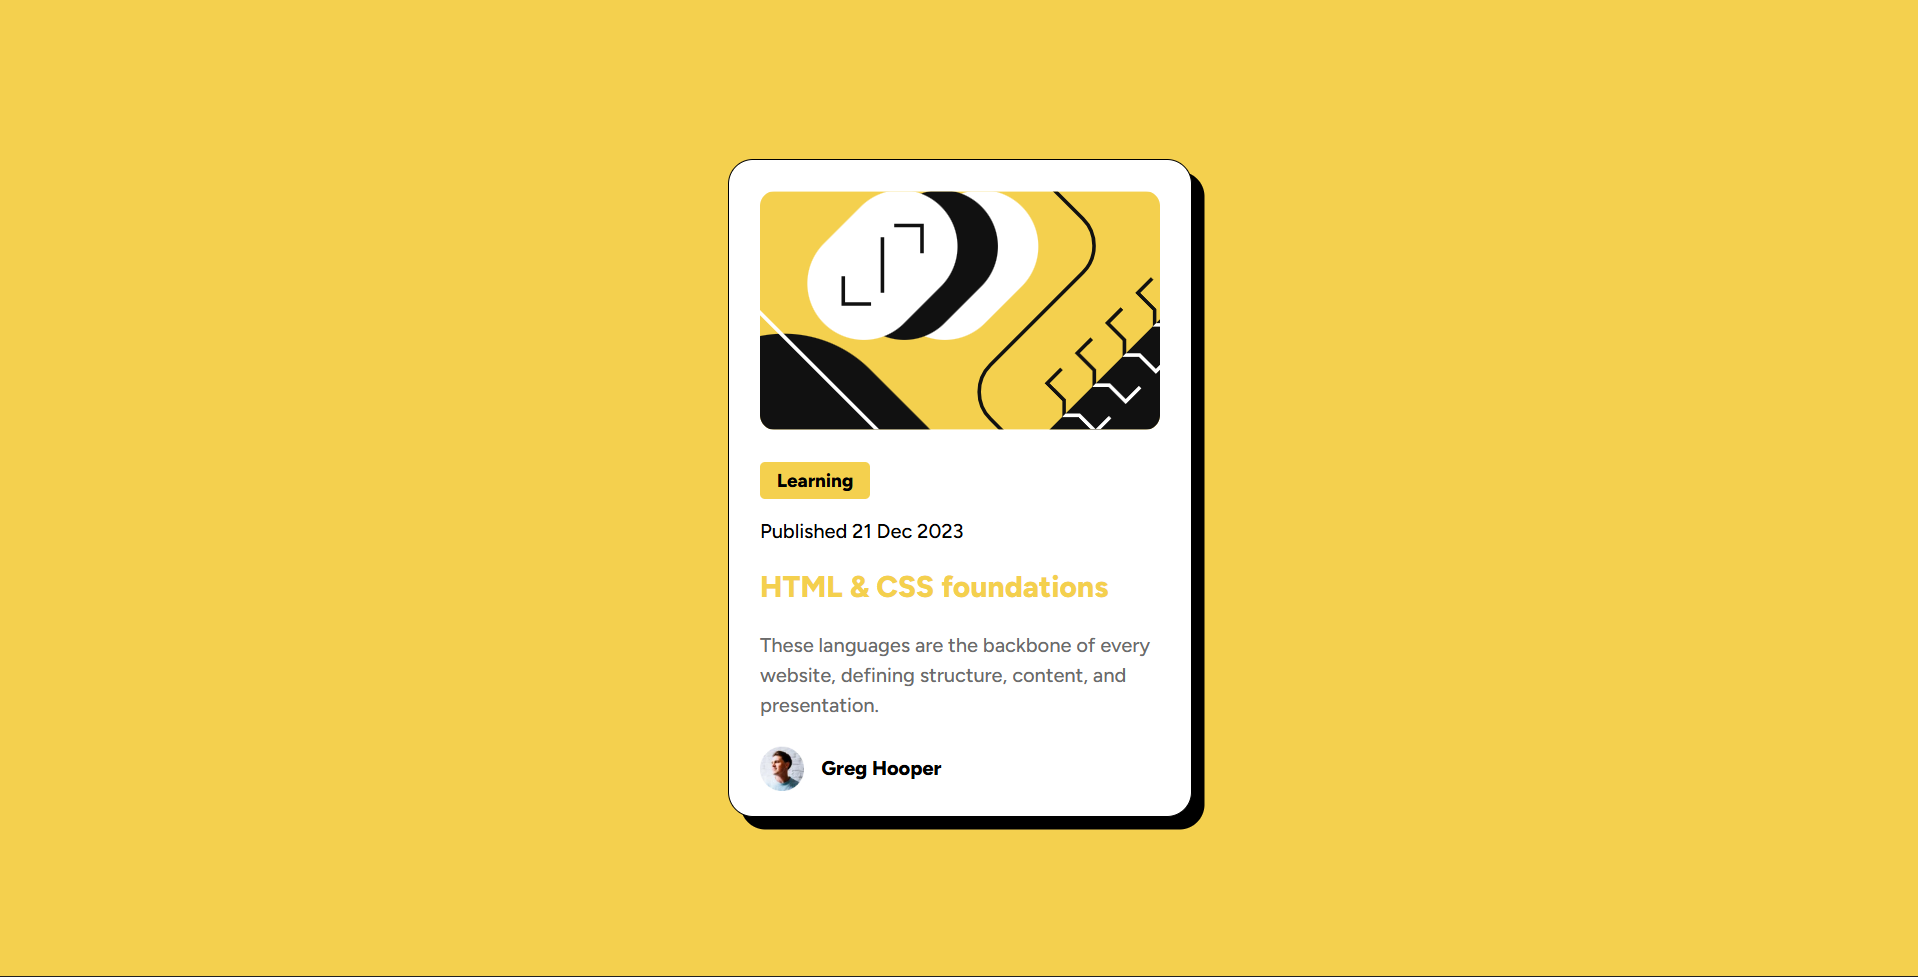
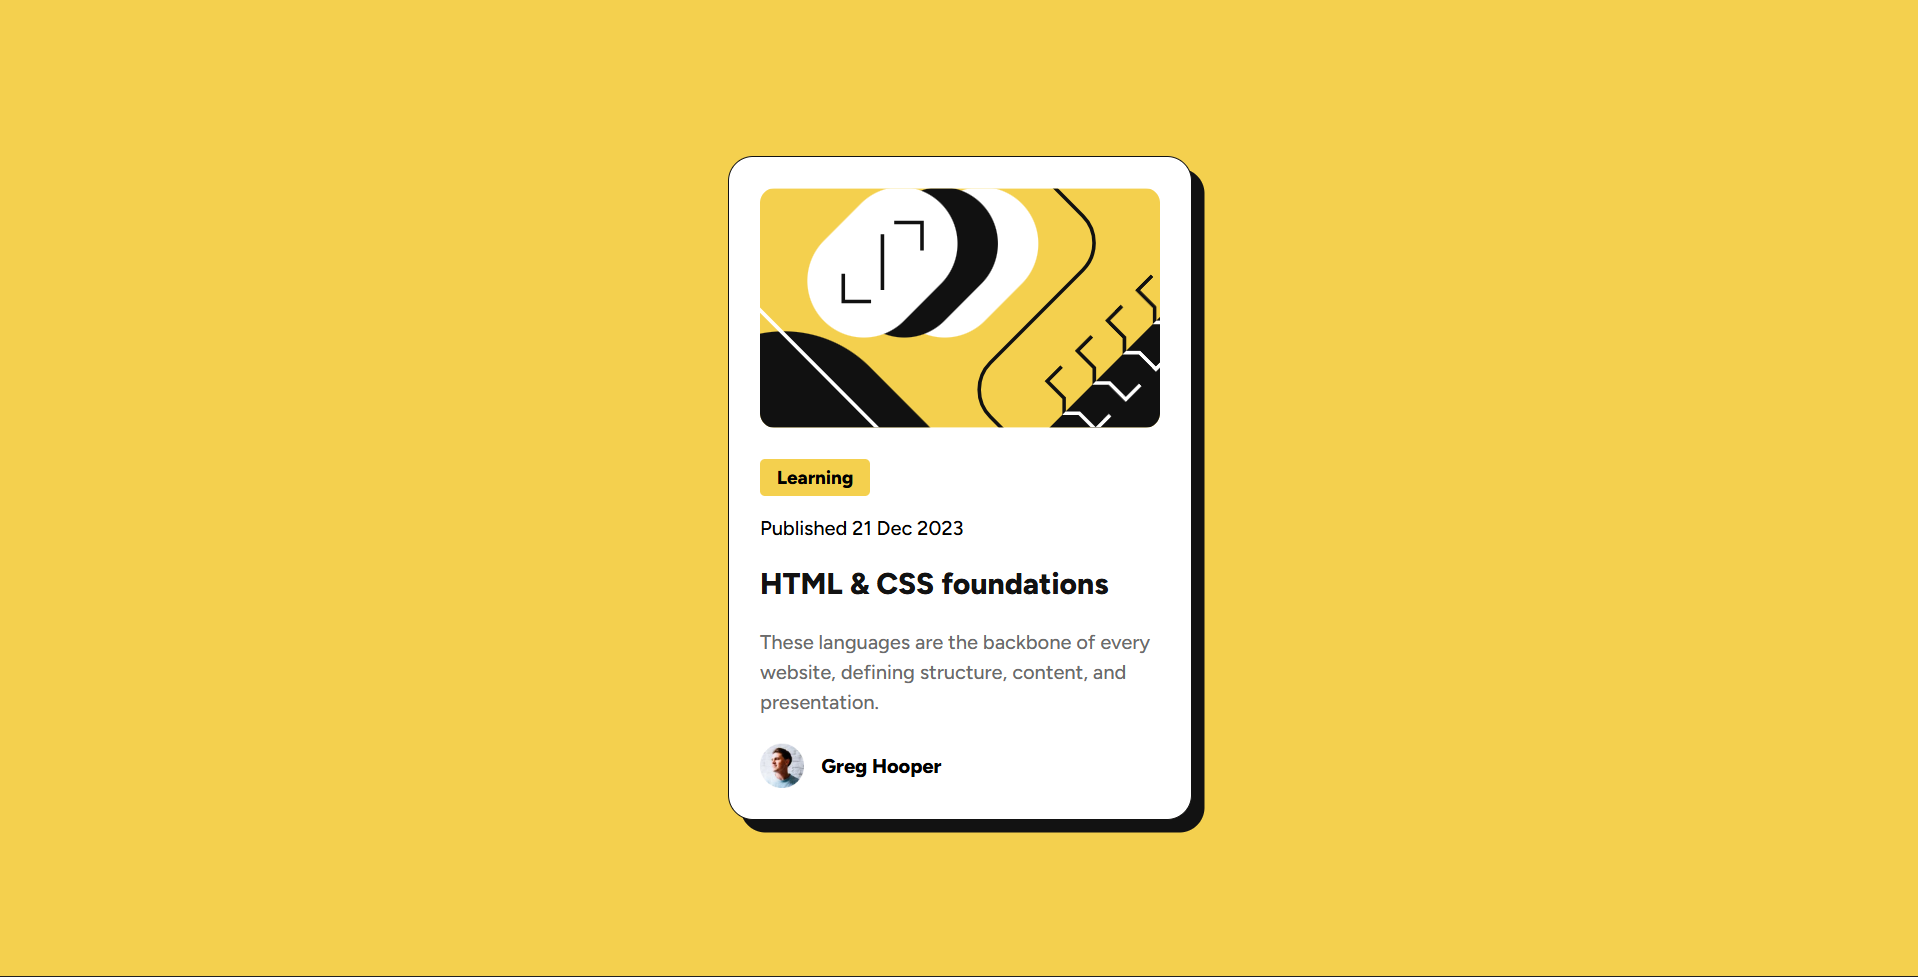
Improved Solution

diff --git a/blog-preview-card/style.css b/blog-preview-card/style.css
@@ -22,17 +22,17 @@ body {
     margin: 0;
     padding: 0;
     height: 100vh;
-    font-family: 'FigTree', sans-serif;
+    font-family: 'Figtree', sans-serif;
 }
 
 .container {
     background-color: white;
-    height: 475px;
+    height: auto;
     width: 320px;
     padding: 25px;
     border-radius: 20px;
-    border: 1px black solid;
-    box-shadow: 10px 10px;
+    border: 2px solid hsl(0, 0%, 7%);
+    box-shadow: 10px 10px 0px hsl(0, 0%, 7%);
 }
 
 .illustration img {
@@ -42,25 +42,33 @@ body {
 }
 
 .btn {
-    padding-top: 25px;
+    margin-top: 25px;
+}
+
+.learning:hover {
+    cursor: pointer;
 }
 
 .learning {
     background-color: hsl(47, 88%, 63%);
     border: none;
     color: black;
-    font-weight: 800;
     border-radius: 4px;
     height: 30px;
     width: 88px;
-    font-family: 'FigTree';
+    font-family: 'Figtree';
     font-weight: 800;
     font-size: 15px;
 }
 
-.title {
+.title:hover {
     color: hsl(47, 88%, 63%);
-    font-weight: 800;
+    cursor: pointer;
+}
+
+.title {
+    color: hsl(0, 0%, 7%);
+    transition: color 0.2s ease;
 }
 
 .content {

diff --git a/blog-preview-card/index.html b/blog-preview-card/index.html
@@ -13,7 +13,7 @@
   <div class="container">
 
     <div class="illustration">
-      <img src="./assets/images/illustration-article.svg" alt="illustration">
+      <img src="./assets/images/illustration-article.svg" alt="illustration image">
     </div>
 
     <div class="btn">
@@ -31,7 +31,7 @@
     </p>
 
     <div class="profile">
-      <img src="./assets/images/image-avatar.webp" alt="avatar">
+      <img src="./assets/images/image-avatar.webp" alt="Greg Hooper">
       <span class="name">Greg Hooper</span>
     </div>
   </div>
